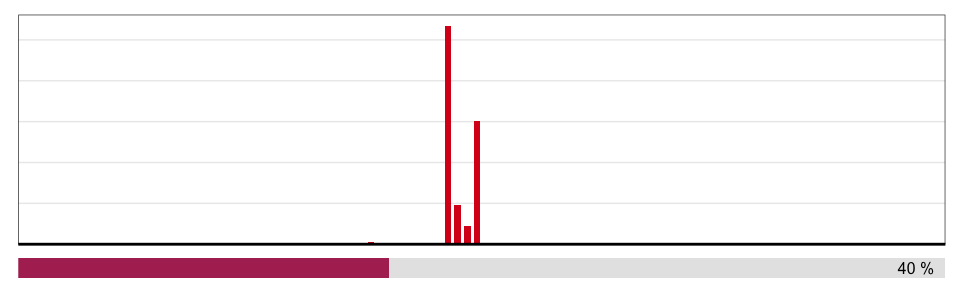
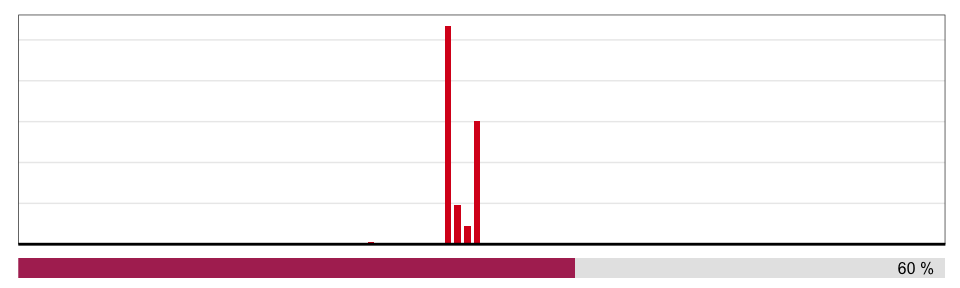
docs: improved sig_visualise_minified readme

Changed region(s): [[0.4062, 0.875, 0.625, 0.9688], [0.9375, 0.9062, 0.9688, 0.9375]]

diff --git a/README.md b/README.md
@@ -190,21 +190,45 @@ sig_visualise_dotplot(
 
 <img src="man/figures/README-signature_dotplot-1.png" width="100%" />
 
-### Visualise Signature + Bar
+### Visualise Minimal Signature Plot + Proportion Bar
 
-For explanatory signatures and similar samples. See
-[sigstory](https://github.com/selkamand/sigstory) for examples of why we
-need.
+Rendering a minimal version of a signature or catalogue with an
+accompanying proportion bar can be highly informative. This
+visualization technique allows you to display a signature from your
+model alongside the proportion of all mutations that the signature
+explains. Additionally, if you’ve conducted a similarity analysis on
+mutation catalogues, you can use these plots to visualize both the most
+similar sample’s catalogue and its cosine similarity to your reference
+sample.
+
+For practical examples of how these plots are utilized, see
+[sigstory](https://github.com/selkamand/sigstory)
 
 ``` r
-# Quick reference visualisation of SBS2 that explains 40% of a sample
-sig_visualise_minified(signature = SBS2, proportion = 0.4)
+
+# Visualize Signature SBS2 that explains 60% of a sample
+sig_visualise_minified(signature = SBS2, proportion = 0.6)
 #> ✔ All channels matched perfectly to set [sbs_96]. Using this set for sort order
 #> ✔ All types matched perfectly to set [sbs_type]. Using this set for sort order
 #> ✔ Types matched perfectly to palette [snv_type]
 ```
 
 <img src="man/figures/README-minified-1.png" width="100%" />
+
+``` r
+
+# Visualize a sample catalogue with a cosine similarity of 0.3 to a sample of interest,
+sig_visualise_minified(
+  tally_single_sample,
+  proportion = 0.3,
+  format = fmt_round(digits = 2)
+)
+#> ✔ All channels matched perfectly to set [sbs_96]. Using this set for sort order
+#> ✔ All types matched perfectly to set [sbs_type]. Using this set for sort order
+#> ✔ Types matched perfectly to palette [snv_type]
+```
+
+<img src="man/figures/README-minified-2.png" width="100%" />
 
 ### Visualise Signature Model as Donut
 
